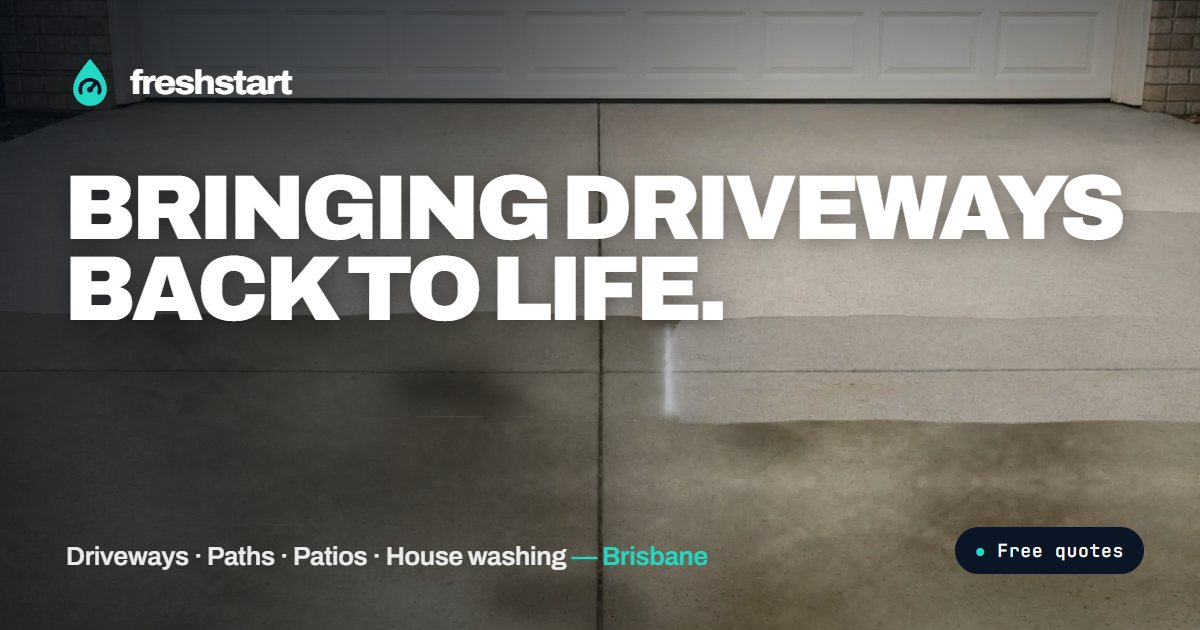
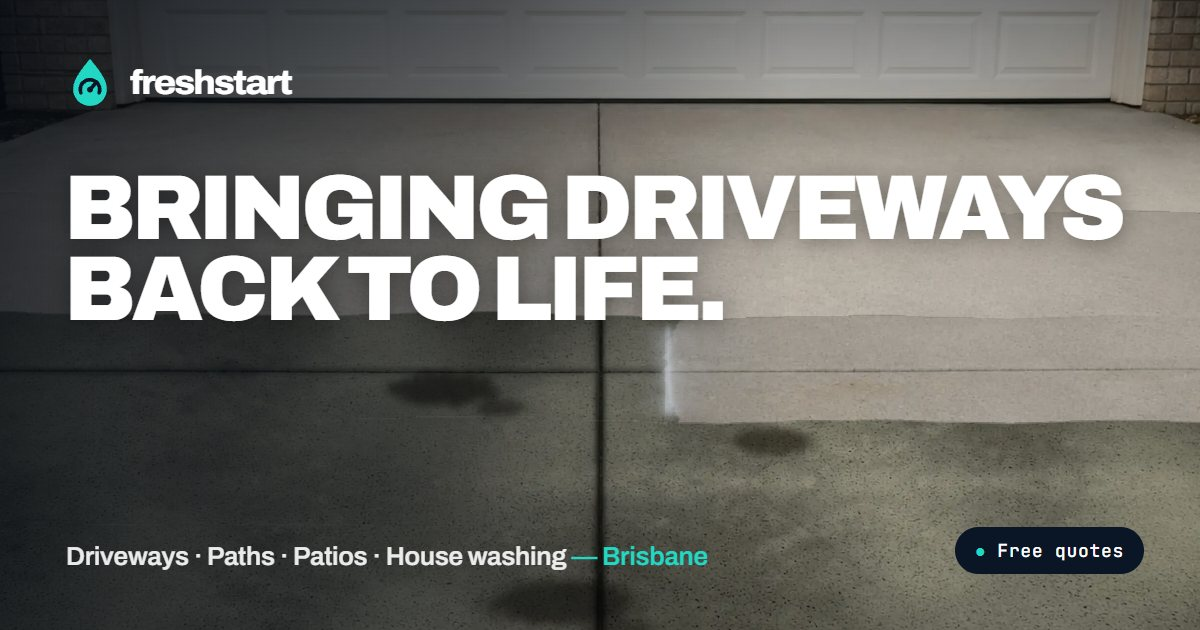
Remove About, services up to page 2, more realistic dirty driveway
- Section order: hero, services, free quote, before & after, FAQ
- Hero before shot rebuilt: grime in the concrete grain, run-off near the
  garage and edges, dirt in the joints, mould specks, translucent oil
  drips, green-brown cast
- Cleaning strips now start where the dirt starts instead of at the top
  of the screen

diff --git a/index.html b/index.html
@@ -27,11 +27,11 @@
 <meta name="twitter:card" content="summary_large_image">
 
 <link rel="preload" href="assets/fonts/archivo-latin.woff2" as="font" type="font/woff2" crossorigin>
-<link rel="stylesheet" href="assets/css/styles.css?v=4">
-<link rel="preload" as="image" href="assets/img/photos/hero-before-mobile.webp?v=4" media="(max-aspect-ratio: 4/5)" fetchpriority="high">
-<link rel="preload" as="image" href="assets/img/photos/hero-after-mobile.webp?v=4" media="(max-aspect-ratio: 4/5)">
-<link rel="preload" as="image" href="assets/img/photos/hero-before-desktop.webp?v=4" media="(min-aspect-ratio: 4/5)" fetchpriority="high">
-<link rel="preload" as="image" href="assets/img/photos/hero-after-desktop.webp?v=4" media="(min-aspect-ratio: 4/5)">
+<link rel="stylesheet" href="assets/css/styles.css?v=6">
+<link rel="preload" as="image" href="assets/img/photos/hero-before-mobile.webp?v=6" media="(max-aspect-ratio: 4/5)" fetchpriority="high">
+<link rel="preload" as="image" href="assets/img/photos/hero-after-mobile.webp?v=6" media="(max-aspect-ratio: 4/5)">
+<link rel="preload" as="image" href="assets/img/photos/hero-before-desktop.webp?v=6" media="(min-aspect-ratio: 4/5)" fetchpriority="high">
+<link rel="preload" as="image" href="assets/img/photos/hero-after-desktop.webp?v=6" media="(min-aspect-ratio: 4/5)">
 
 <script>
   /* Decide the hero mode before first paint so the page height never jumps. */
@@ -125,7 +125,6 @@
       <span class="brand__word">freshstart</span>
     </a>
     <nav class="nav__links" aria-label="Main">
-      <a href="#about">About</a>
       <a href="#services">Services</a>
       <a href="#results">Results</a>
       <a href="#quote">Contact</a>
@@ -140,7 +139,6 @@
 
 <div class="menu" id="menu" aria-hidden="true">
   <nav class="menu__links" aria-label="Mobile">
-    <a href="#about">About</a>
     <a href="#services">Services</a>
     <a href="#results">Results</a>
     <!-- <a href="#reviews">Reviews</a> (un-comment with the reviews section) -->
@@ -212,22 +210,60 @@
   </div>
 </section>
 
-<!-- ===================================================== ABOUT -->
-<section class="section about about--compact" id="about">
+<!-- ===================================================== SERVICES -->
+<section class="section services" id="services">
   <div class="wrap">
-    <div class="about__box rv">
-      <div class="about__head">
-        <p class="eyebrow"><span></span>About us</p>
-        <h2>Your trusted driveway experts.</h2>
-      </div>
-      <div class="about__body">
-        <p class="about__p">At FreshStart Pressure Washing, we believe every surface deserves to look its best. From grimy driveways to mossy paths and patios, we use professional-grade equipment to bring concrete back to how it looked on day one. Reliable, affordable, and no job too big or too small.</p>
-        <ul class="about__badges">
-          <li><svg aria-hidden="true"><use href="#i-shield"/></svg>Fully insured</li>
-          <li><svg aria-hidden="true"><use href="#i-star"/></svg>10+ years experience</li>
-          <li><svg aria-hidden="true"><use href="#i-smile"/></svg>100% satisfaction guarantee</li>
-        </ul>
-      </div>
+    <header class="sec-head rv">
+      <p class="eyebrow"><span></span>What we clean</p>
+      <h2>Every surface, back to its best.</h2>
+      <p class="sec-head__lede">Driveways first, plus everything at ground level around them. We match the method to the surface, so it comes up clean without getting damaged.</p>
+    </header>
+
+    <div class="bento">
+      <article class="svc svc--wide rv" data-photo="driveway">
+        <div class="svc__media"><img src="assets/img/photos/driveway-after-720.webp" srcset="assets/img/photos/driveway-after-720.webp 720w, assets/img/photos/driveway-after-1280.webp 1280w" sizes="(max-width: 640px) 100vw, (max-width: 1023px) 50vw, 40vw" alt="" loading="lazy" decoding="async"><span class="svc__chip">Pressure clean</span></div>
+        <div class="svc__body">
+          <h3>Driveways &amp; concrete</h3>
+          <p>Plain, coloured or exposed aggregate. We lift oil, tyre marks, mould and years of built-up grime, then leave it stripe-free.</p>
+          <div class="svc__foot"><a class="svc__quote" href="#quote" data-quote="Driveway">Get a quote <svg aria-hidden="true"><use href="#i-arrow"/></svg></a></div>
+        </div>
+      </article>
+
+      <article class="svc svc--mid rv" style="--d:1" data-photo="pavers">
+        <div class="svc__media"><img src="assets/img/photos/pavers-after-720.webp" srcset="assets/img/photos/pavers-after-720.webp 720w, assets/img/photos/pavers-after-1280.webp 1280w" sizes="(max-width: 640px) 100vw, (max-width: 1023px) 50vw, 40vw" alt="" loading="lazy" decoding="async"><span class="svc__chip">Pressure clean</span></div>
+        <div class="svc__body">
+          <h3>Pavers &amp; patios</h3>
+          <p>Weeds, moss and black spots blasted out of the joints. Re-sanding and sealing available.</p>
+          <div class="svc__foot"><a class="svc__quote" href="#quote" data-quote="Paths &amp; patio">Get a quote <svg aria-hidden="true"><use href="#i-arrow"/></svg></a></div>
+        </div>
+      </article>
+
+      <article class="svc svc--half rv" data-photo="brick">
+        <div class="svc__media"><img src="assets/img/photos/brick-after-720.webp" srcset="assets/img/photos/brick-after-720.webp 720w, assets/img/photos/brick-after-1280.webp 1280w" sizes="(max-width: 640px) 100vw, (max-width: 1023px) 50vw, 40vw" alt="" loading="lazy" decoding="async"><span class="svc__chip">Soft wash</span></div>
+        <div class="svc__body">
+          <h3>House washing</h3>
+          <p>Brick, render, cladding and weatherboard. Cobwebs, dust and mould gone, paint and mortar left intact.</p>
+          <div class="svc__foot"><a class="svc__quote" href="#quote" data-quote="House wash">Get a quote <svg aria-hidden="true"><use href="#i-arrow"/></svg></a></div>
+        </div>
+      </article>
+
+      <article class="svc svc--half rv" style="--d:1" data-photo="deck">
+        <div class="svc__media"><img src="assets/img/photos/deck-after-720.webp" srcset="assets/img/photos/deck-after-720.webp 720w, assets/img/photos/deck-after-1280.webp 1280w" sizes="(max-width: 640px) 100vw, (max-width: 1023px) 50vw, 40vw" alt="" loading="lazy" decoding="async"><span class="svc__chip">Low pressure</span></div>
+        <div class="svc__body">
+          <h3>Decks &amp; timber</h3>
+          <p>Weathered grey boards brought back to warm, rich colour, cleaned with the grain and ready for oil.</p>
+          <div class="svc__foot"><a class="svc__quote" href="#quote" data-quote="Deck">Get a quote <svg aria-hidden="true"><use href="#i-arrow"/></svg></a></div>
+        </div>
+      </article>
+
+      <article class="svc svc--full svc--dark rv">
+        <div class="svc__dark">
+          <span class="svc__icon" aria-hidden="true"><svg><use href="#i-building"/></svg></span>
+          <h3>Commercial &amp; strata</h3>
+          <p>Shopfronts, car parks, body corporate common areas, bin bays and graffiti removal. Out-of-hours work and recurring maintenance plans available.</p>
+          <a class="btn btn--primary" href="#quote" data-quote="Commercial">Get a commercial quote <svg aria-hidden="true"><use href="#i-arrow"/></svg></a>
+        </div>
+      </article>
     </div>
   </div>
 </section>
@@ -287,64 +323,6 @@
         <p>We'll be in touch within one business day with your free quote. Got photos? Email them to <a href="mailto:freshstartpressurewashing11@gmail.com?subject=Photos%20for%20my%20quote">freshstartpressurewashing11@<wbr>gmail.com</a> and we'll quote even faster.</p>
       </div>
     </form>
-  </div>
-</section>
-
-<!-- ===================================================== SERVICES -->
-<section class="section services" id="services">
-  <div class="wrap">
-    <header class="sec-head rv">
-      <p class="eyebrow"><span></span>What we clean</p>
-      <h2>Every surface, back to its best.</h2>
-      <p class="sec-head__lede">Driveways first, plus everything at ground level around them. We match the method to the surface, so it comes up clean without getting damaged.</p>
-    </header>
-
-    <div class="bento">
-      <article class="svc svc--wide rv" data-photo="driveway">
-        <div class="svc__media"><img src="assets/img/photos/driveway-after-720.webp" srcset="assets/img/photos/driveway-after-720.webp 720w, assets/img/photos/driveway-after-1280.webp 1280w" sizes="(max-width: 640px) 100vw, (max-width: 1023px) 50vw, 40vw" alt="" loading="lazy" decoding="async"><span class="svc__chip">Pressure clean</span></div>
-        <div class="svc__body">
-          <h3>Driveways &amp; concrete</h3>
-          <p>Plain, coloured or exposed aggregate. We lift oil, tyre marks, mould and years of built-up grime, then leave it stripe-free.</p>
-          <div class="svc__foot"><a class="svc__quote" href="#quote" data-quote="Driveway">Get a quote <svg aria-hidden="true"><use href="#i-arrow"/></svg></a></div>
-        </div>
-      </article>
-
-      <article class="svc svc--mid rv" style="--d:1" data-photo="pavers">
-        <div class="svc__media"><img src="assets/img/photos/pavers-after-720.webp" srcset="assets/img/photos/pavers-after-720.webp 720w, assets/img/photos/pavers-after-1280.webp 1280w" sizes="(max-width: 640px) 100vw, (max-width: 1023px) 50vw, 40vw" alt="" loading="lazy" decoding="async"><span class="svc__chip">Pressure clean</span></div>
-        <div class="svc__body">
-          <h3>Pavers &amp; patios</h3>
-          <p>Weeds, moss and black spots blasted out of the joints. Re-sanding and sealing available.</p>
-          <div class="svc__foot"><a class="svc__quote" href="#quote" data-quote="Paths &amp; patio">Get a quote <svg aria-hidden="true"><use href="#i-arrow"/></svg></a></div>
-        </div>
-      </article>
-
-      <article class="svc svc--half rv" data-photo="brick">
-        <div class="svc__media"><img src="assets/img/photos/brick-after-720.webp" srcset="assets/img/photos/brick-after-720.webp 720w, assets/img/photos/brick-after-1280.webp 1280w" sizes="(max-width: 640px) 100vw, (max-width: 1023px) 50vw, 40vw" alt="" loading="lazy" decoding="async"><span class="svc__chip">Soft wash</span></div>
-        <div class="svc__body">
-          <h3>House washing</h3>
-          <p>Brick, render, cladding and weatherboard. Cobwebs, dust and mould gone, paint and mortar left intact.</p>
-          <div class="svc__foot"><a class="svc__quote" href="#quote" data-quote="House wash">Get a quote <svg aria-hidden="true"><use href="#i-arrow"/></svg></a></div>
-        </div>
-      </article>
-
-      <article class="svc svc--half rv" style="--d:1" data-photo="deck">
-        <div class="svc__media"><img src="assets/img/photos/deck-after-720.webp" srcset="assets/img/photos/deck-after-720.webp 720w, assets/img/photos/deck-after-1280.webp 1280w" sizes="(max-width: 640px) 100vw, (max-width: 1023px) 50vw, 40vw" alt="" loading="lazy" decoding="async"><span class="svc__chip">Low pressure</span></div>
-        <div class="svc__body">
-          <h3>Decks &amp; timber</h3>
-          <p>Weathered grey boards brought back to warm, rich colour, cleaned with the grain and ready for oil.</p>
-          <div class="svc__foot"><a class="svc__quote" href="#quote" data-quote="Deck">Get a quote <svg aria-hidden="true"><use href="#i-arrow"/></svg></a></div>
-        </div>
-      </article>
-
-      <article class="svc svc--full svc--dark rv">
-        <div class="svc__dark">
-          <span class="svc__icon" aria-hidden="true"><svg><use href="#i-building"/></svg></span>
-          <h3>Commercial &amp; strata</h3>
-          <p>Shopfronts, car parks, body corporate common areas, bin bays and graffiti removal. Out-of-hours work and recurring maintenance plans available.</p>
-          <a class="btn btn--primary" href="#quote" data-quote="Commercial">Get a commercial quote <svg aria-hidden="true"><use href="#i-arrow"/></svg></a>
-        </div>
-      </article>
-    </div>
   </div>
 </section>
 
@@ -501,7 +479,6 @@
     <nav aria-label="Company">
       <h4>Company</h4>
       <ul>
-        <li><a href="#about">About us</a></li>
         <li><a href="#results">Before &amp; after</a></li>
         <!-- <li><a href="#reviews">Reviews</a></li> (un-comment with the reviews section) -->
         <li><a href="#faq">FAQ</a></li>
@@ -536,8 +513,8 @@
   <a class="btn btn--primary" href="#quote">Get a free quote <svg aria-hidden="true"><use href="#i-arrow"/></svg></a>
 </div>
 
-<script src="assets/js/surface-engine.js?v=4" defer></script>
-<script src="assets/js/app.js?v=4" defer></script>
+<script src="assets/js/surface-engine.js?v=6" defer></script>
+<script src="assets/js/app.js?v=6" defer></script>
 <script data-goatcounter="https://smuffinz.goatcounter.com/count" async src="//gc.zgo.at/count.js"></script>
 </body>
 </html>

diff --git a/assets/js/app.js b/assets/js/app.js
@@ -30,8 +30,8 @@
     hero: {
       /* Straight-on concrete driveway in front of a garage door (Unsplash, see CREDITS.md). The 'before' is the same
          photo with real concrete grime, oil stains and wheel-path dirt added. */
-      desktop: { after: 'hero-after-desktop.webp?v=4', before: 'hero-before-desktop.webp?v=4', size: [1920, 1200], beforeRect: [0, 0, 1, 1], focus: [0.5, 1] },
-      mobile: { after: 'hero-after-mobile.webp?v=4', before: 'hero-before-mobile.webp?v=4', size: [750, 1538], beforeRect: [0, 0, 1, 1], focus: [0.5, 1] },
+      desktop: { after: 'hero-after-desktop.webp?v=6', before: 'hero-before-desktop.webp?v=6', size: [1920, 1200], beforeRect: [0, 0, 1, 1], focus: [0.5, 1] },
+      mobile: { after: 'hero-after-mobile.webp?v=6', before: 'hero-before-mobile.webp?v=6', size: [750, 1538], beforeRect: [0, 0, 1, 1], focus: [0.5, 1] },
       slab: null, /* strips sweep straight across the screen */
     },
   };
@@ -183,8 +183,17 @@
         st.sweep = [a0, a1, Y(c0), Y(c1)];
         st.rows = 5;
       } else {
-        st.sweep = [0, 1, 0, 1];
-        st.rows = clamp(Math.round(st.h / (st.w < 700 ? 130 : 150)), 4, 8);
+        /* strips only cover the rows of the screen that actually have dirt on them */
+        let y0 = 1, y1 = 0;
+        for (let gy = 0; gy <= 64; gy++) for (let gx = 0; gx <= 32; gx++) {
+          const ix = (gx / 32) * st.map[0] + st.map[2], iy = (gy / 64) * st.map[1] + st.map[3];
+          if (eng.maskAt(p, ix, iy) < 0.3) continue;
+          y0 = Math.min(y0, gy / 64); y1 = Math.max(y1, gy / 64);
+        }
+        if (!(y1 > y0)) { y0 = 0; y1 = 1; }
+        y0 = Math.max(0, y0 - 0.015); y1 = Math.min(1, y1 + 0.015);
+        st.sweep = [0, 1, y0, y1];
+        st.rows = clamp(Math.round(st.h * (y1 - y0) / (st.w < 700 ? 120 : 140)), 3, 8);
       }
       st.needs = true;
     }
